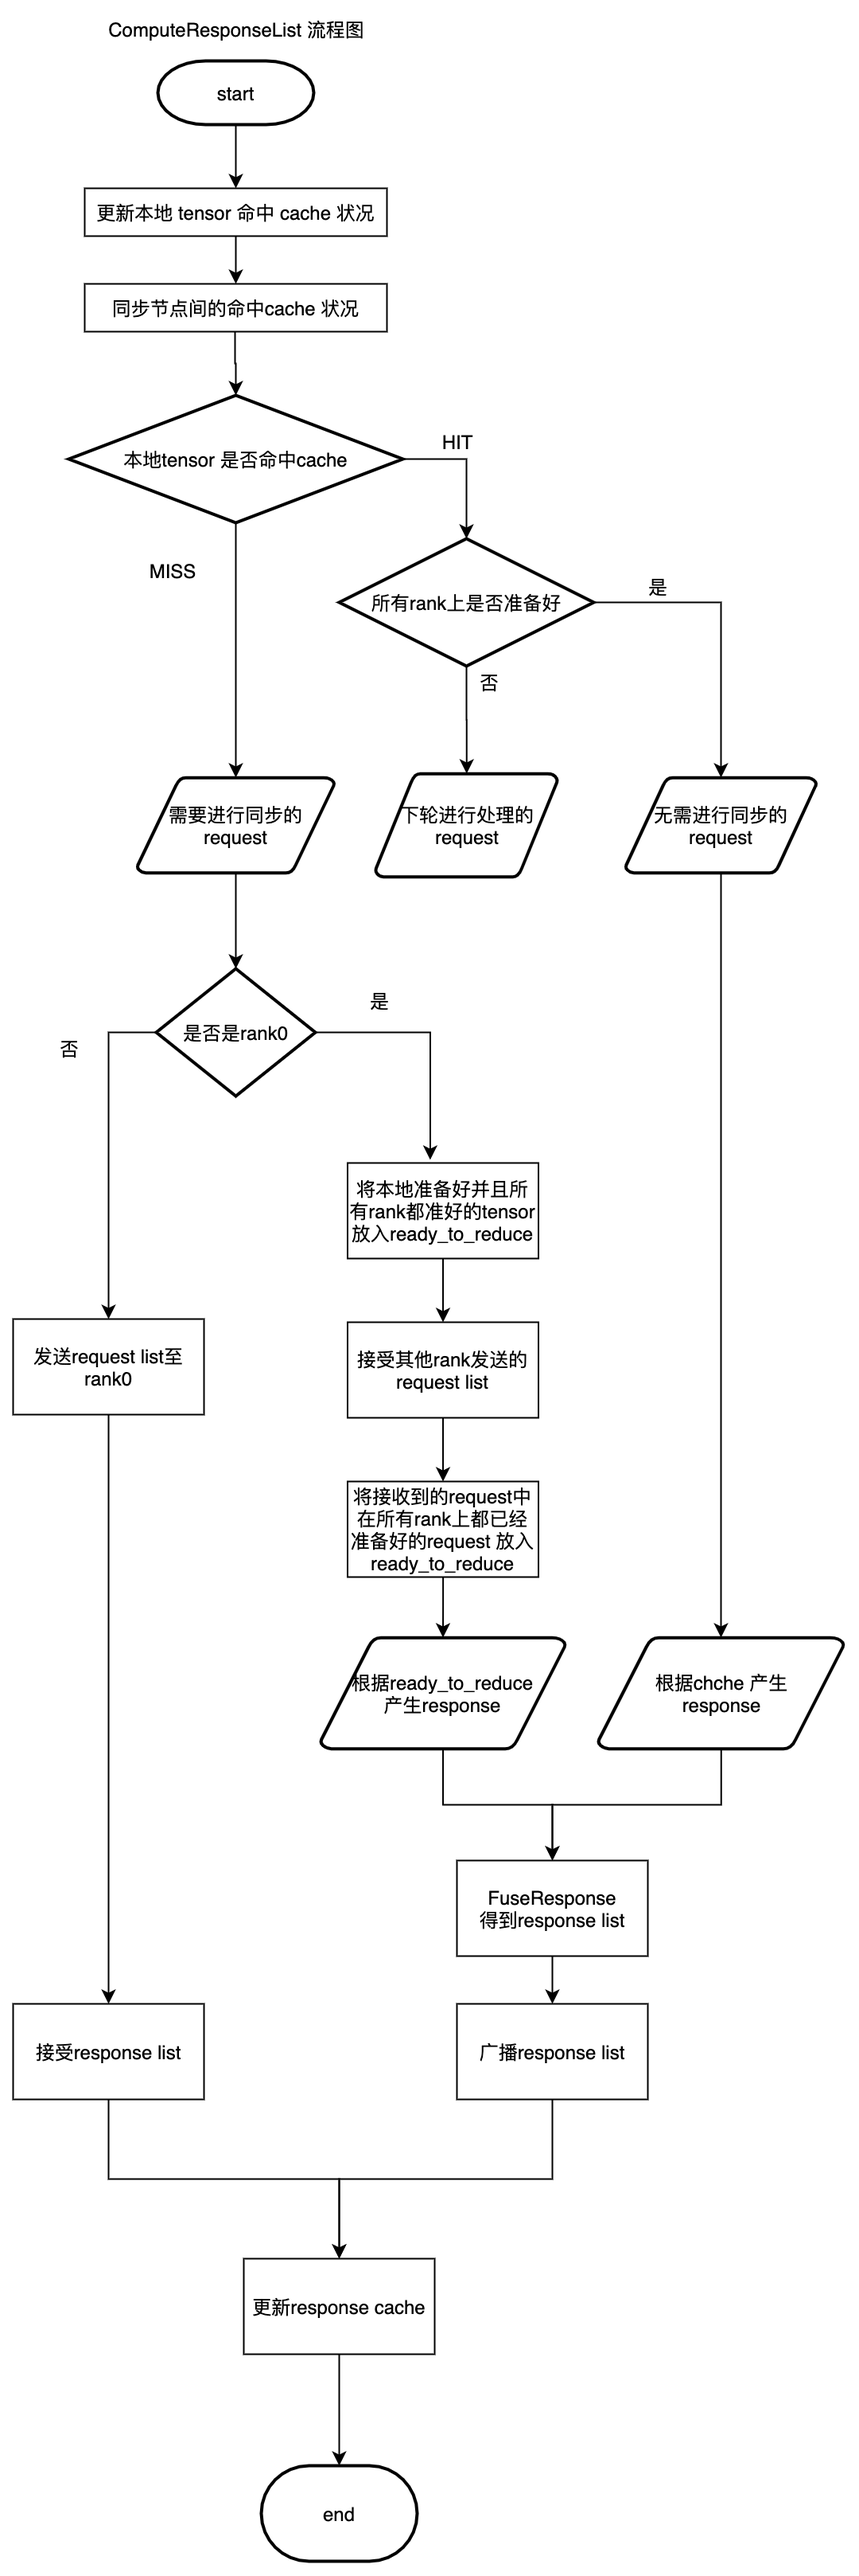
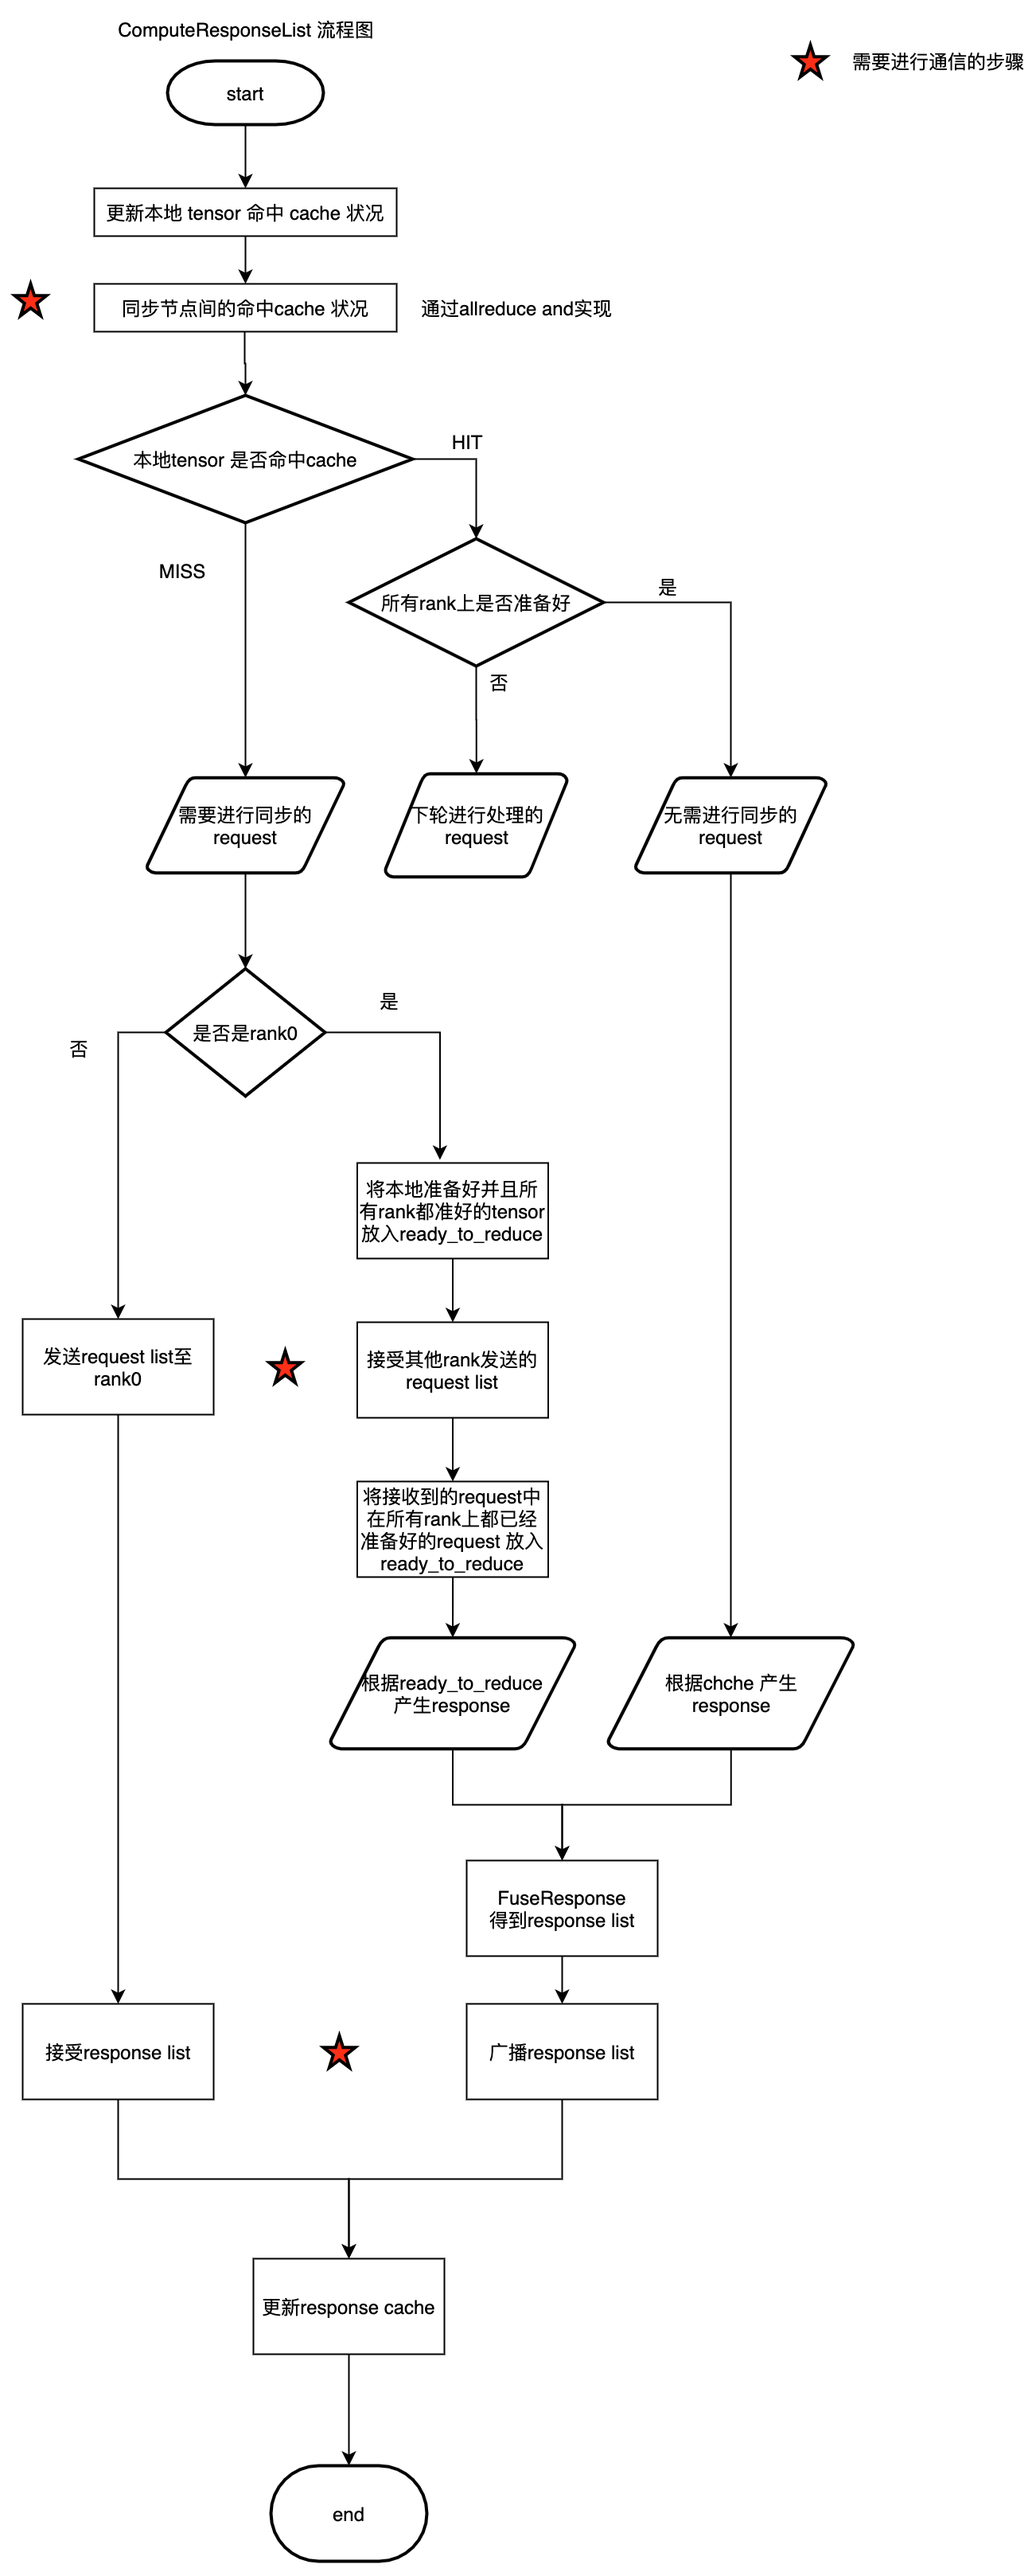
update

diff --git a/doc/horoovd 协调过程.md b/doc/horoovd 协调过程.md
@@ -5,7 +5,8 @@
 # 协调过程目的
 协调过程的目的是决定workers处理哪些tensor，执行哪些操作。
 # Response cache
-每个worker中存在一个Response Cache，并且每个worker上的Response Cache 的内容是相同的.  Response Cache中存放了被其他rank 发送的tensor 对应的response(计算完成后，发送给coordinator), 如果Response Cache中包含了此轮所有的message， 则不需要额外的communications。
+每个worker中存在一个Response Cache，并且每个worker上的Response Cache 的内容是相同的，保存上一轮生成的response list。如果Response Cache中包含了此轮所有的message， 则不需要额外的communications。
+
 
 每个worker上cache以std::list<std::pair<Response, TensorParams>> 的形式记录，采用LRU cache.  并利用std::unordered_map<std::string, uint32_t> tensor_name_to_bit_  实现快速寻找cache中的元素
 
@@ -54,8 +55,8 @@ workers在每轮会将message中的request分为三个部分
 
 ### Coordinator:
 得到全部的协调完成的request
-  1. 首先处理coordinator中的T2部分，去判断这些tensor是否在所有rank上都已经准备好。
-  2. 然后去接受其他worker部分的T2，再去判断是否在所有rank上已经准备好
+  1. 首先处理coordinator中的R2部分，去判断这些tensor是否在所有rank上都已经准备好。
+  2. 然后去接受其他worker部分的R2，再去判断是否在所有rank上已经准备好
   3. 上面的两部分整合起来，则是此轮全部的所有节点都准备好的tensor，将这些tensor对应的request放入一个队列，记为ready_to_reduce。
 
 构建response list
